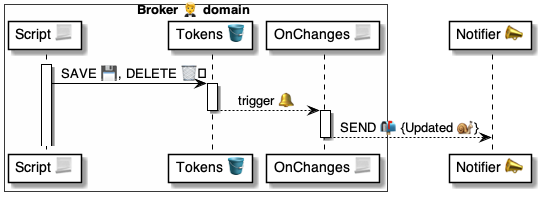
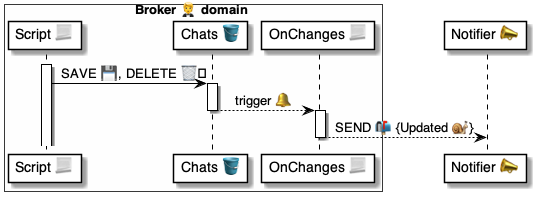
.

diff --git a/4 ⚙ Solution/20 🧑🦰 UI/Brokers 🤵/🤵🪣 Broker tables/Chats 💬 table/🪣🔔 OnChatChanges/🤵 OnChatChanges 📃 trigger.md b/4 ⚙ Solution/20 🧑🦰 UI/Brokers 🤵/🤵🪣 Broker tables/Chats 💬 table/🪣🔔 OnChatChanges/🤵 OnChatChanges 📃 trigger.md
@@ -1,9 +1,9 @@
-# 🤵 OnTokenChanges 📃 trigger
+# 🤵 OnChatChanges 📃 trigger
 
 > Purpose
 
 * [Script 📃](<../../../../../35 💬 Chats/Scripts 📃/Script 📃.md>) to inform a [Notifier 📣 domain](<../../../../Notifiers 📣/📣 Notifier domain/📣 Notifier 👥 domain.md>) 
-    * that [Tokens 🎫](<../../../../../30 🧩 Data/Tokens 🎫/🎫 Token/🎫 Token.md>) need to be updated 
+    * that [Chats 💬](<../../../../../35 💬 Chats/Chats 💬/💬 Chat.md>) need to be updated 
     * on the [Wallet 🧑🦰 app](<../../../../Wallets 🧑🦰/🧑🦰 Wallet app/🧑🦰 Wallet 🛠 app.md>)
 
 > Flow 
@@ -18,16 +18,16 @@
 ## How to call
 
 ```yaml
-- RUN|OnTokenChanged:
+- RUN|OnChatChanged:
     Item: 
-        ID: <token-uuid>
+        ID: <chat-uuid>
         Wallet: <wallet-id>
 ```
 
 ## Script
 
 ```yaml
-📃 OnTokenChanged:
+📃 OnChatChanged:
 
 # Assert the inputs
 - ASSERT|$Item:
@@ -46,7 +46,7 @@
         Subject: Updated@Notifier
     Body:
         Wallet: $Item.Wallet
-        Updates: [TOKENS]
+        Updates: [CHATS]
 ```
 
 |Uses||
